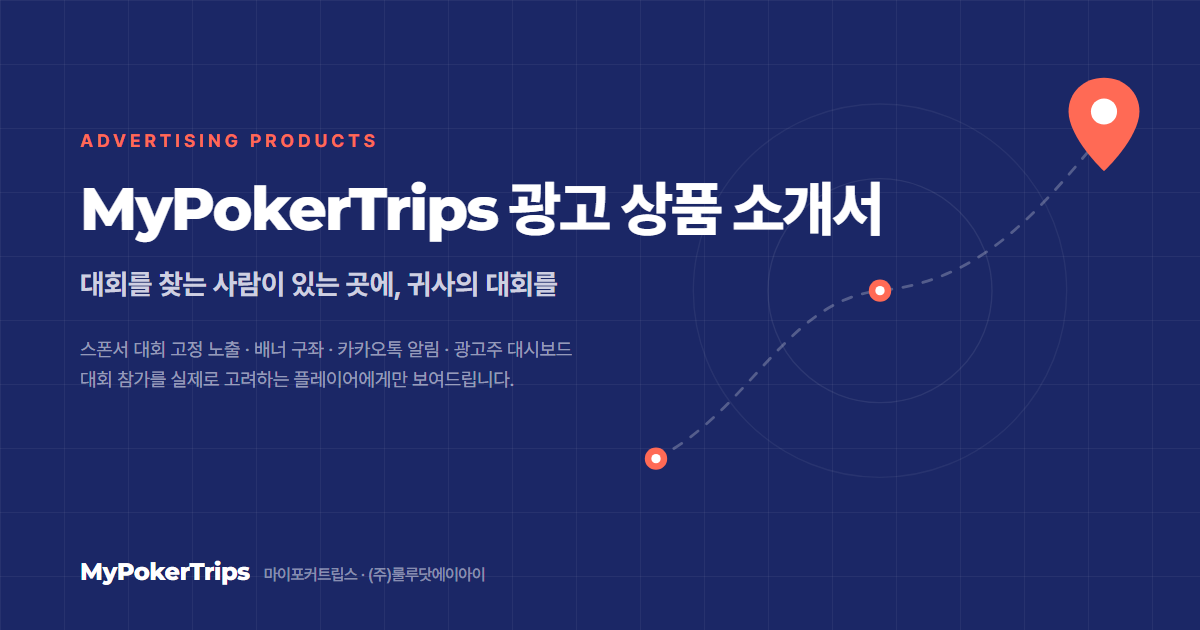
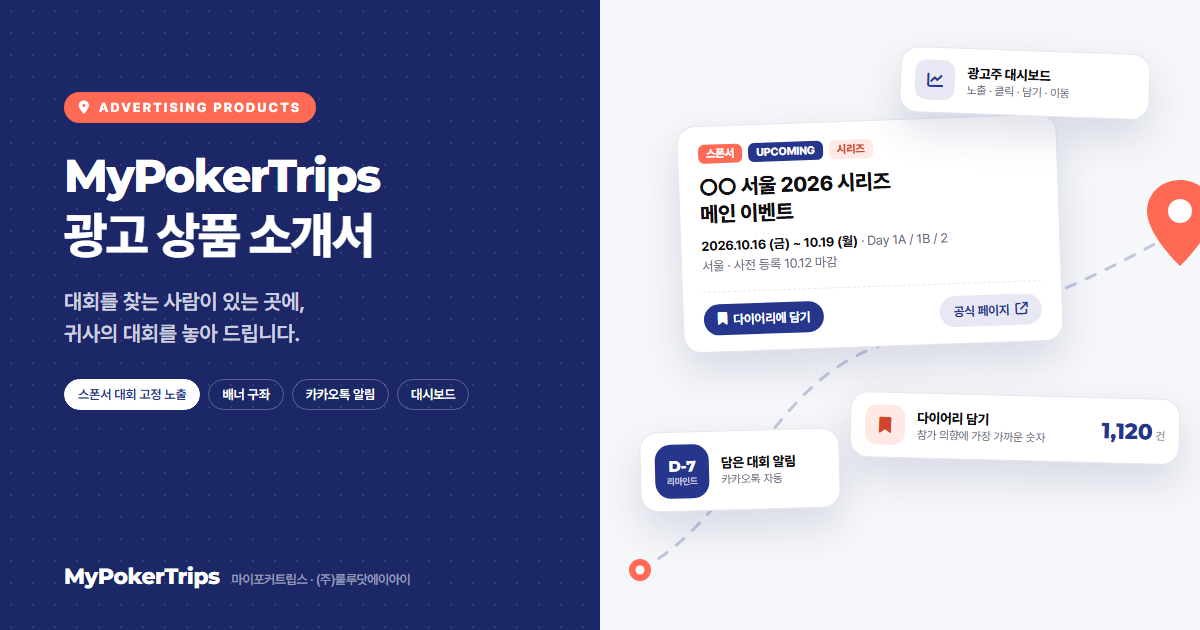
표지 디자인 개편(벤토 카드형) + OG 이미지 갱신
Claude-Session: https://claude.ai/code/session_0133toKDqgPSMfCoEuLWeeQS

diff --git a/ads.html b/ads.html
@@ -166,6 +166,49 @@ body { font-family: "Pretendard Variable", Pretendard, -apple-system, BlinkMacSy
 .cover-wm { position: absolute; left: 72px; bottom: 40px; font-family: "Montserrat", sans-serif; font-size: 26px; font-weight: 800; z-index: 2; color: #fff; letter-spacing: -0.02em; }
 .cover-wm small { font-family: "Pretendard Variable", sans-serif; font-weight: 500; font-size: 14px; color: rgba(232,232,244,0.6); margin-left: 12px; }
 
+/* ---------- Cover v2 (bento mock cards) ---------- */
+.cv { position: relative; width: 100%; height: 100%; background: #F6F7FA; overflow: hidden; }
+.cv-band { position: absolute; left: 0; top: 0; bottom: 0; width: 46%; background: var(--indigo-deep); }
+.cv-dots { position: absolute; inset: 0; background-image: radial-gradient(rgba(255,255,255,0.10) 1.2px, transparent 1.2px); background-size: 22px 22px; pointer-events: none; }
+.cv-text { position: absolute; left: 72px; top: 96px; width: 470px; z-index: 3; color: #fff; }
+.cv-eyebrow { display: inline-flex; align-items: center; gap: 8px; background: var(--coral); color: #fff; font-size: 12.5px; font-weight: 800; letter-spacing: 0.16em; text-transform: uppercase; border-radius: 999px; padding: 7px 14px; }
+.cv-title { margin-top: 26px; font-size: 50px; font-weight: 800; letter-spacing: -0.035em; line-height: 1.16; }
+.cv-title .wm { font-family: "Montserrat", sans-serif; font-weight: 800; display: block; font-size: 44px; letter-spacing: -0.03em; margin-bottom: 4px; }
+.cv-sub { margin-top: 22px; font-size: 19px; font-weight: 600; color: rgba(232,232,244,0.9); line-height: 1.5; }
+.cv-line { margin-top: 18px; font-size: 14.5px; color: rgba(232,232,244,0.62); line-height: 1.65; }
+.cv-chips { margin-top: 28px; display: flex; gap: 8px; flex-wrap: wrap; }
+.cv-chip { border: 1px solid rgba(255,255,255,0.28); color: #fff; font-size: 12.5px; font-weight: 600; border-radius: 999px; padding: 6px 12px; }
+.cv-chip.solid { background: #fff; color: var(--indigo); border-color: #fff; }
+.cv-foot { position: absolute; left: 72px; bottom: 40px; z-index: 3; font-family: "Montserrat", sans-serif; font-size: 22px; font-weight: 800; color: #fff; letter-spacing: -0.02em; }
+.cv-foot small { font-family: "Pretendard Variable", sans-serif; font-weight: 500; font-size: 13px; color: rgba(232,232,244,0.6); margin-left: 12px; }
+.cv-date { position: absolute; right: 72px; top: 44px; font-family: "Montserrat", sans-serif; font-size: 14px; font-weight: 700; color: var(--indigo); letter-spacing: 0.08em; z-index: 3; }
+.cv-stage { position: absolute; left: 46%; top: 0; right: 0; bottom: 0; }
+.cv-route { position: absolute; left: -40px; top: 40px; width: 720px; height: 640px; pointer-events: none; }
+.mk { position: absolute; background: #fff; border: 1px solid var(--border); border-radius: 18px; box-shadow: 0 18px 40px rgba(27,39,102,0.14), 0 2px 6px rgba(27,39,102,0.06); z-index: 2; }
+.mk-card { width: 360px; padding: 18px 20px 16px; }
+.mk-tags { display: flex; gap: 6px; margin-bottom: 10px; }
+.mk-tag { font-size: 11px; font-weight: 800; border-radius: 6px; padding: 3px 8px; }
+.mk-tag.sp { background: var(--coral); color: #fff; }
+.mk-tag.up { background: var(--indigo); color: #fff; }
+.mk-tag.gtd { background: var(--coral-soft); color: var(--coral-text); }
+.mk-title { font-size: 20px; font-weight: 800; color: var(--text-strong); letter-spacing: -0.02em; line-height: 1.3; }
+.mk-meta { margin-top: 8px; font-size: 13px; color: var(--text-muted); line-height: 1.6; }
+.mk-meta b { color: var(--text-strong); font-weight: 700; }
+.mk-row { margin-top: 14px; display: flex; align-items: center; justify-content: space-between; border-top: 1px dashed var(--border); padding-top: 12px; }
+.mk-btn { background: var(--indigo); color: #fff; font-size: 12.5px; font-weight: 700; border-radius: 999px; padding: 8px 14px; display: inline-flex; align-items: center; gap: 6px; }
+.mk-btn.ghost { background: var(--indigo-soft); color: var(--indigo); }
+.mk-mini { padding: 12px 14px; display: flex; align-items: center; gap: 12px; }
+.mk-ico { width: 40px; height: 40px; border-radius: 12px; display: flex; align-items: center; justify-content: center; font-size: 16px; flex-shrink: 0; }
+.mk-ico.in { background: var(--indigo-soft); color: var(--indigo); }
+.mk-ico.co { background: var(--coral-soft); color: var(--coral-text); }
+.mk-mini h6 { font-size: 13.5px; font-weight: 800; color: var(--text-strong); }
+.mk-mini p { font-size: 11.5px; color: var(--text-muted); margin-top: 2px; }
+.mk-mini .num { margin-left: auto; font-family: "Montserrat", sans-serif; font-size: 22px; font-weight: 800; color: var(--indigo); letter-spacing: -0.02em; }
+.mk-mini .num small { font-family: "Pretendard Variable", sans-serif; font-size: 11px; font-weight: 600; color: var(--text-faint); margin-left: 3px; }
+.mk-dday { width: 54px; height: 54px; border-radius: 16px; background: var(--indigo); color: #fff; display: flex; flex-direction: column; align-items: center; justify-content: center; font-family: "Montserrat", sans-serif; font-weight: 800; font-size: 15px; line-height: 1; }
+.mk-dday small { font-family: "Pretendard Variable", sans-serif; font-size: 9px; font-weight: 600; opacity: 0.75; margin-top: 3px; }
+.cv-thanks .cv-text { top: 150px; }
+
 /* ---------- Product page ---------- */
 .prod-wrap { display: grid; grid-template-columns: 1fr 340px; gap: 34px; align-items: start; }
 .shots { display: flex; gap: 22px; align-items: flex-start; justify-content: center; }
@@ -276,22 +319,43 @@ body { font-family: "Pretendard Variable", Pretendard, -apple-system, BlinkMacSy
 
 <!-- ===== 1 · Cover ===== -->
 <section class="slide slide-cover active" id="slide-1">
-  <div class="cover-wrap">
-    <div class="cover-grid" aria-hidden="true"></div>
-    <svg class="cover-route" viewBox="0 0 600 600" fill="none" xmlns="http://www.w3.org/2000/svg" aria-hidden="true">
-      <path d="M60 470 C160 420, 200 300, 300 290 S460 220, 540 120" stroke="rgba(255,255,255,0.22)" stroke-width="3" stroke-dasharray="10 12" stroke-linecap="round"/>
-      <g transform="translate(60,470)"><circle r="12" fill="#FF6A55"/><circle r="5" fill="#fff"/></g>
-      <g transform="translate(300,290)"><circle r="12" fill="#FF6A55"/><circle r="5" fill="#fff"/></g>
-      <g transform="translate(540,120)"><path d="M0 -58 C-22 -58 -38 -42 -38 -22 C-38 6 0 42 0 42 C0 42 38 6 38 -22 C38 -42 22 -58 0 -58 Z" fill="#FF6A55"/><circle cy="-22" r="14" fill="#fff"/></g>
-      <circle cx="300" cy="290" r="120" stroke="rgba(255,255,255,0.08)" stroke-width="1.5"/>
-      <circle cx="300" cy="290" r="200" stroke="rgba(255,255,255,0.06)" stroke-width="1.5"/>
-    </svg>
-    <div class="cover-text">
-      <div class="cover-title a-up d1"><span class="wm">MyPokerTrips</span> 광고 상품 소개서<span class="sub">대회를 찾는 사람이 있는 곳에, 귀사의 대회를</span></div>
-      <div class="cover-date a-up d2">2026. 4Q</div>
-      <div class="cover-line a-up d3">국내·해외 라이브 포커 대회 일정을 한곳에 모은 정보 서비스.<br>대회 참가를 실제로 고려하는 플레이어에게만 보여드립니다.</div>
+  <div class="cv">
+    <div class="cv-band"><div class="cv-dots" aria-hidden="true"></div></div>
+    <div class="cv-date">2026 · 4Q</div>
+    <div class="cv-text">
+      <span class="cv-eyebrow a-up d1"><i class="fa-solid fa-location-dot"></i>Advertising Products</span>
+      <div class="cv-title a-up d2"><span class="wm">MyPokerTrips</span>광고 상품 소개서</div>
+      <div class="cv-sub a-up d3">대회를 찾는 사람이 있는 곳에,<br>귀사의 대회를 놓아 드립니다.</div>
+      <div class="cv-line a-up d3">국내·해외 라이브 포커 대회 일정을 한곳에 모은 정보 서비스.<br>대회 참가를 실제로 고려하는 플레이어에게만 보여드립니다.</div>
+      <div class="cv-chips a-up d4"><span class="cv-chip solid">스폰서 대회 고정 노출</span><span class="cv-chip">배너 구좌</span><span class="cv-chip">카카오톡 알림</span><span class="cv-chip">광고주 대시보드</span></div>
     </div>
-    <div class="cover-wm">MyPokerTrips<small>마이포커트립스 · (주)룰루닷에이아이</small></div>
+    <div class="cv-foot">MyPokerTrips<small>마이포커트립스 · (주)룰루닷에이아이</small></div>
+    <div class="cv-stage">
+      <svg class="cv-route" viewBox="0 0 720 640" fill="none" xmlns="http://www.w3.org/2000/svg" aria-hidden="true">
+        <path d="M80 560 C200 500, 220 360, 360 330 S560 280, 690 230" stroke="#26368C" stroke-opacity="0.25" stroke-width="3" stroke-dasharray="10 12" stroke-linecap="round"/>
+        <g transform="translate(80,560)"><circle r="11" fill="#FF6A55"/><circle r="4.5" fill="#fff"/></g>
+        <g transform="translate(690,230)"><path d="M0 -50 C-19 -50 -33 -36 -33 -19 C-33 5 0 36 0 36 C0 36 33 5 33 -19 C33 -36 19 -50 0 -50 Z" fill="#FF6A55"/><circle cy="-19" r="12" fill="#fff"/></g>
+      </svg>
+      <div class="mk mk-card a-up d2" style="left:90px;top:150px;transform:rotate(-2deg)">
+        <div class="mk-tags"><span class="mk-tag sp">스폰서</span><span class="mk-tag up">UPCOMING</span><span class="mk-tag gtd">시리즈</span></div>
+        <div class="mk-title">○○ 서울 2026 시리즈<br>메인 이벤트</div>
+        <div class="mk-meta"><b>2026.10.16 (금) ~ 10.19 (월)</b> · Day 1A / 1B / 2<br>서울 · 사전 등록 10.12 마감</div>
+        <div class="mk-row"><span class="mk-btn"><i class="fa-solid fa-bookmark"></i>다이어리에 담기</span><span class="mk-btn ghost">공식 페이지 <i class="fa-solid fa-arrow-up-right-from-square"></i></span></div>
+      </div>
+      <div class="mk mk-mini a-up d3" style="left:330px;top:420px;width:330px;transform:rotate(1.5deg)">
+        <div class="mk-ico co"><i class="fa-solid fa-bookmark"></i></div>
+        <div><h6>다이어리 담기</h6><p>참가 의향에 가장 가까운 숫자</p></div>
+        <div class="num">1,120<small>건</small></div>
+      </div>
+      <div class="mk mk-mini a-up d4" style="left:60px;top:470px;width:250px;transform:rotate(-1.5deg)">
+        <div class="mk-dday">D-7<small>리마인드</small></div>
+        <div><h6>담은 대회 알림</h6><p>카카오톡 · D-7 / D-1 자동</p></div>
+      </div>
+      <div class="mk mk-mini a-up d5" style="left:340px;top:88px;width:260px;transform:rotate(2deg)">
+        <div class="mk-ico in"><i class="fa-solid fa-chart-line"></i></div>
+        <div><h6>광고주 대시보드</h6><p>노출 · 클릭 · 담기 · 이동, 매일 06시</p></div>
+      </div>
+    </div>
   </div>
 </section>
 
@@ -767,7 +831,7 @@ body { font-family: "Pretendard Variable", Pretendard, -apple-system, BlinkMacSy
     pageNumber.innerHTML = '<strong>' + current + '</strong> / ' + totalSlides;
     var dots = navDots.children; for (var i = 0; i < dots.length; i++) dots[i].classList.toggle('active', i + 1 === current);
     var s = document.getElementById('slide-' + current);
-    presentation.classList.toggle('dark-chrome', s.classList.contains('slide-dark') || s.classList.contains('slide-cover'));
+    presentation.classList.toggle('dark-chrome', s.classList.contains('slide-dark') || (s.classList.contains('slide-cover') && !s.querySelector('.cv')));
   }
   function goToSlide(n) {
     if (isAnimating || n === current || n < 1 || n > totalSlides) return;
